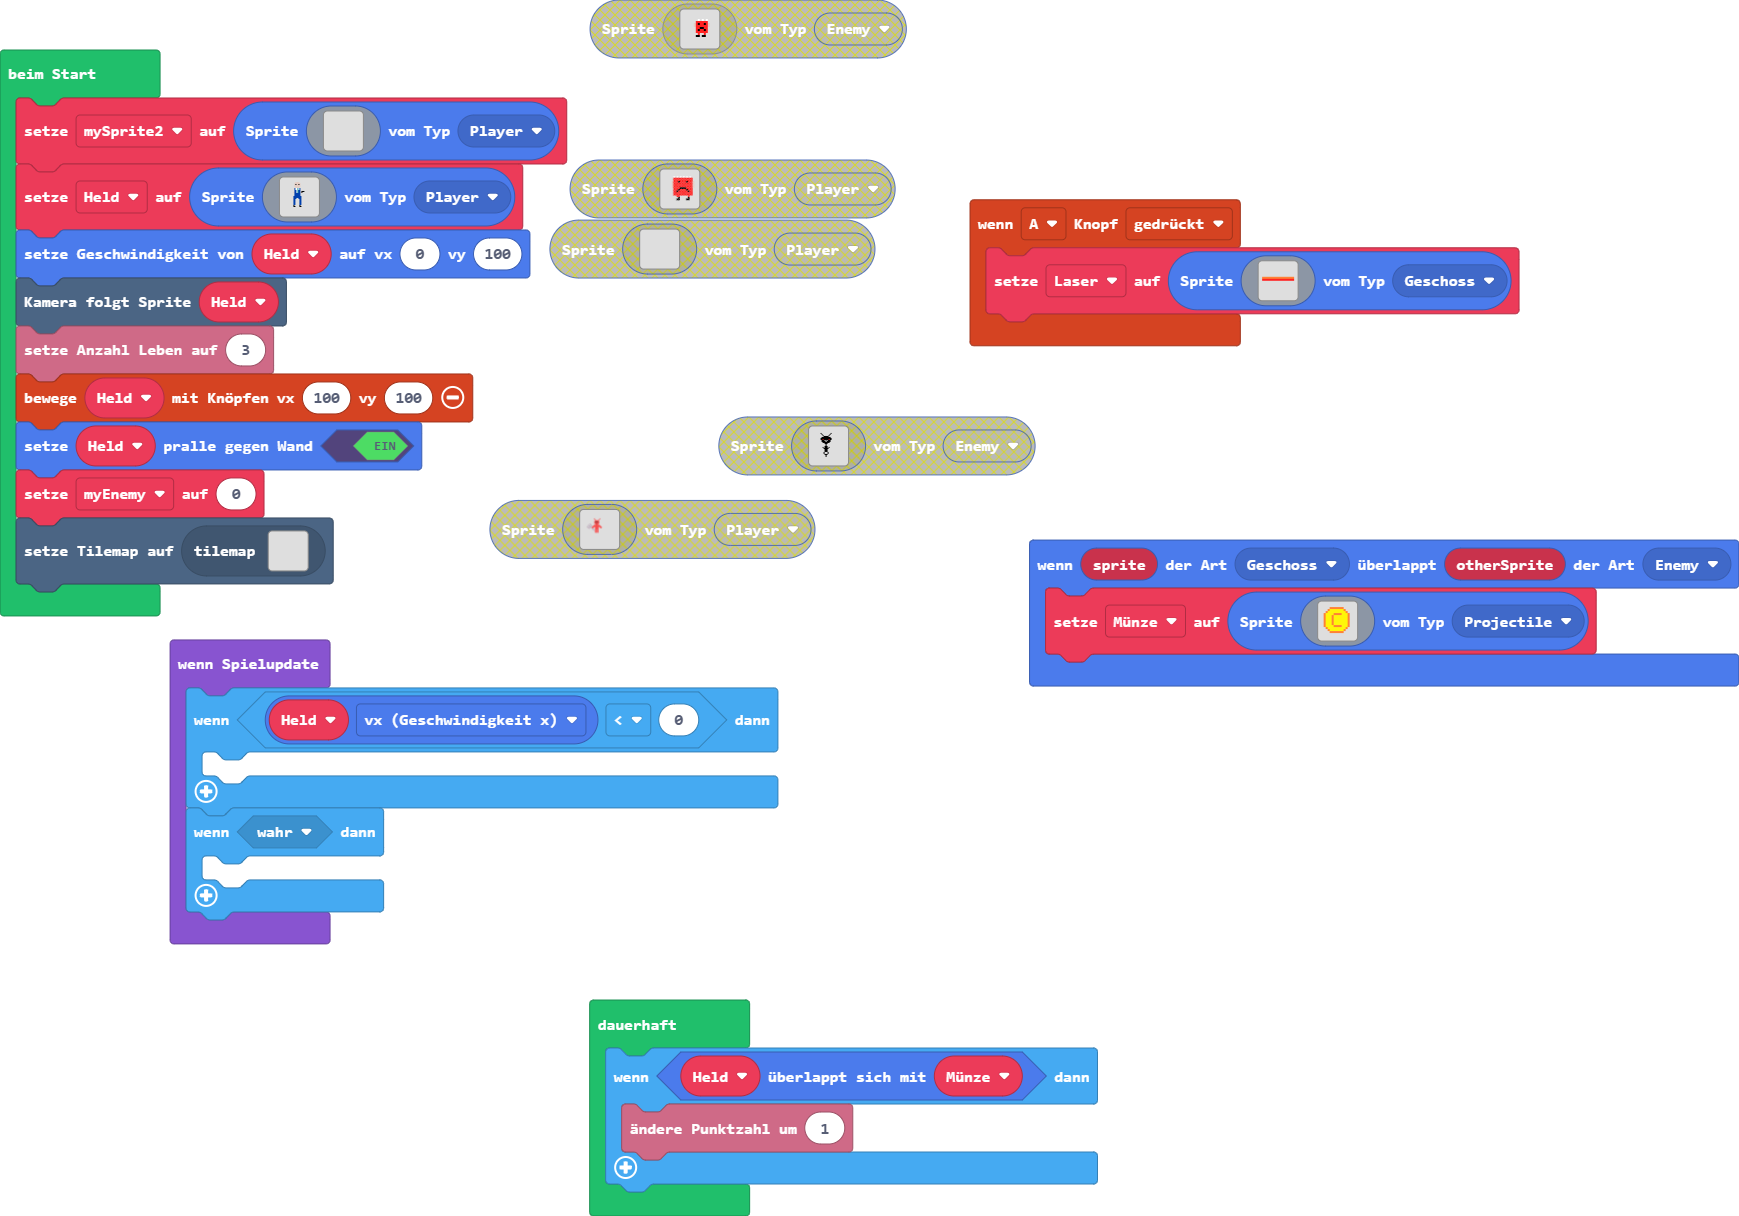
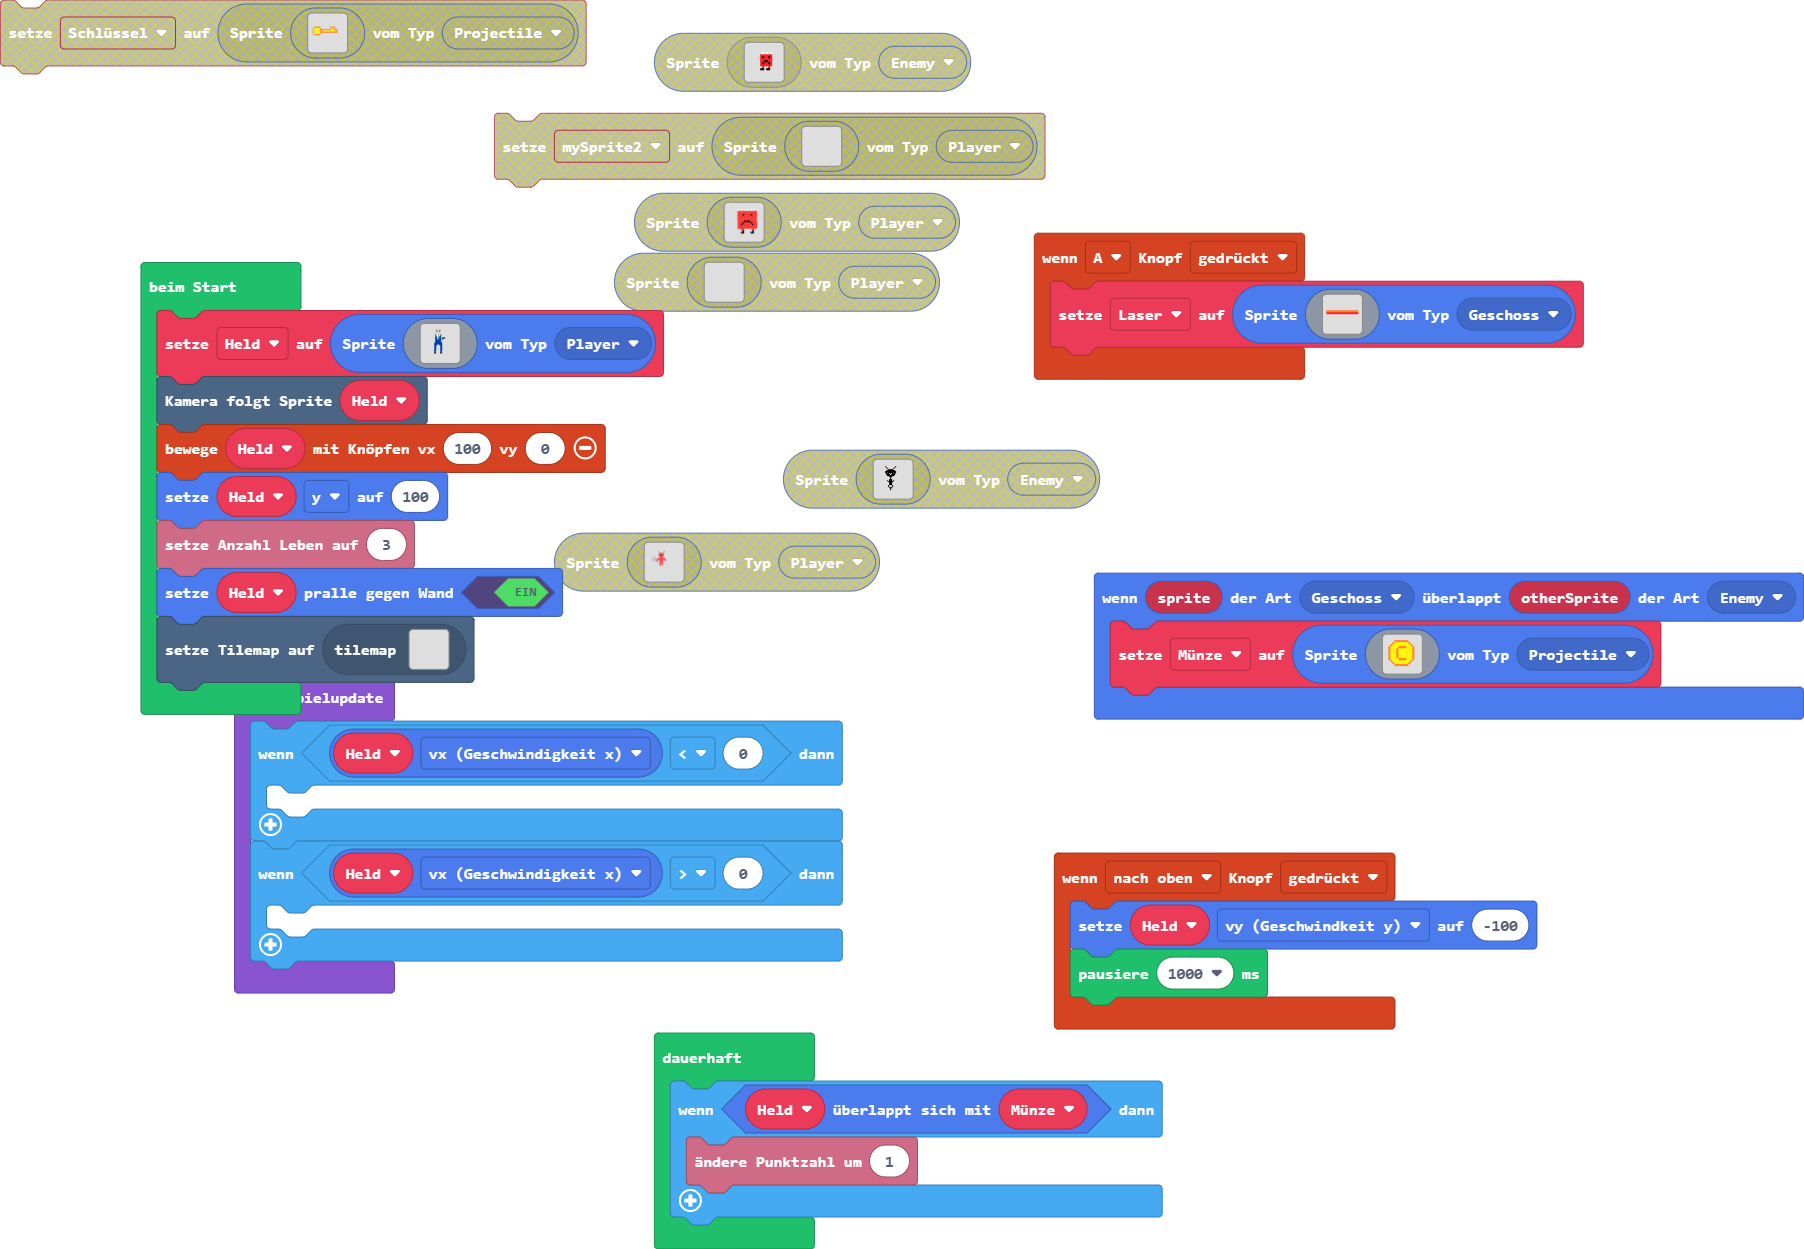
Aktualisiere main.blocks, main.ts, tilemap.g.jres, tilemap.g.ts

diff --git a/tilemap.g.ts b/tilemap.g.ts
@@ -4,6 +4,8 @@ namespace myTiles {
     export const transparency16 = image.ofBuffer(hex``);
     //% fixedInstance jres blockIdentity=images._tile
     export const tile1 = image.ofBuffer(hex``);
+    //% fixedInstance jres blockIdentity=images._tile
+    export const tile2 = image.ofBuffer(hex``);
 
     helpers._registerFactory("tilemap", function(name: string) {
         switch(helpers.stringTrim(name)) {
@@ -178,6 +180,44 @@ namespace myTiles {
 . . . . . . . . . . . . . . . . 
 . . . . . . . . . . . . . . . . 
 `, [], -Infinity);
+            case "Level10":
+            case "Level10":return tiles.createTilemap(hex`1000100000000000000000000000000000000000000000000000000000000000000000000000000000000000000000000000000000000000000000000000000000000000000000000000000000000000000000000000000000000000000000000000000000000000000000000000000000000000000000000000000000000000000000000000000000000000000000000000000000000000000000000000000000000000000000000000000000000000000000000000000000000000000000000000000000000000000000000000000000000000000000000000000000000000000000000000000000000000000000000000000000000000000000000000000000000000`, img`
+. . . . . . . . . . . . . . . . 
+. . . . . . . . . . . . . . . . 
+. . . . . . . . . . . . . . . . 
+. . . . . . . . . . . . . . . . 
+. . . . . . . . . . . . . . . . 
+. . . . . . . . . . . . . . . . 
+. . . . . . . . . . . . . . . . 
+. . . . . . . . . . . . . . . . 
+. . . . . . . . . . . . . . . . 
+. . . . . . . . . . . . . . . . 
+. . . . . . . . . . . . . . . . 
+. . . . . . . . . . . . . . . . 
+. . . . . . . . . . . . . . . . 
+. . . . . . . . . . . . . . . . 
+. . . . . . . . . . . . . . . . 
+. . . . . . . . . . . . . . . . 
+`, [myTiles.transparency16], TileScale.Sixteen);
+            case "Level11":
+            case "Level11":return tiles.createTilemap(hex`1000100000000000000000000000000000000000000000000000000000000000000000000000000000000000000000000000000000000000000000000000000000000000000000000000000000000000000000000000000000000000000000000000000000000000000000000000000000000000000000000000000000000000000000000000000000000000000000000000000000000000000000000000000000000000000000000000000000000000000000000000000000000000000000000000000000000000000000000000000000000000000000000000000000000000000000000000000000000000000000000000000000000000000000000000000000000000`, img`
+. . . . . . . . . . . . . . . . 
+. . . . . . . . . . . . . . . . 
+. . . . . . . . . . . . . . . . 
+. . . . . . . . . . . . . . . . 
+. . . . . . . . . . . . . . . . 
+. . . . . . . . . . . . . . . . 
+. . . . . . . . . . . . . . . . 
+. . . . . . . . . . . . . . . . 
+. . . . . . . . . . . . . . . . 
+. . . . . . . . . . . . . . . . 
+. . . . . . . . . . . . . . . . 
+. . . . . . . . . . . . . . . . 
+. . . . . . . . . . . . . . . . 
+. . . . . . . . . . . . . . . . 
+. . . . . . . . . . . . . . . . 
+. . . . . . . . . . . . . . . . 
+`, [myTiles.transparency16], TileScale.Sixteen);
         }
         return null;
     })
@@ -186,6 +226,7 @@ namespace myTiles {
         switch(helpers.stringTrim(name)) {
             case "transparency16":return transparency16;
             case "tile1":return tile1;
+            case "tile2":return tile2;
         }
         return null;
     })

diff --git a/main.ts b/main.ts
@@ -21,30 +21,17 @@ controller.A.onEvent(ControllerButtonEvent.Pressed, function () {
         . . . . . . . . . . . . . . . . 
         `, SpriteKind.Geschoss)
 })
+controller.up.onEvent(ControllerButtonEvent.Pressed, function () {
+    Held.vy = -100
+    pause(1000)
+})
 sprites.onOverlap(SpriteKind.Geschoss, SpriteKind.Enemy, function (sprite, otherSprite) {
     Münze = sprites.create(assets.image`Münze`, SpriteKind.Projectile)
 })
 let Münze: Sprite = null
 let Laser: Sprite = null
-let mySprite2 = sprites.create(img`
-    . . . . . . . . . . . . . . . . 
-    . . . . . . . . . . . . . . . . 
-    . . . . . . . . . . . . . . . . 
-    . . . . . . . . . . . . . . . . 
-    . . . . . . . . . . . . . . . . 
-    . . . . . . . . . . . . . . . . 
-    . . . . . . . . . . . . . . . . 
-    . . . . . . . . . . . . . . . . 
-    . . . . . . . . . . . . . . . . 
-    . . . . . . . . . . . . . . . . 
-    . . . . . . . . . . . . . . . . 
-    . . . . . . . . . . . . . . . . 
-    . . . . . . . . . . . . . . . . 
-    . . . . . . . . . . . . . . . . 
-    . . . . . . . . . . . . . . . . 
-    . . . . . . . . . . . . . . . . 
-    `, SpriteKind.Player)
-let Held = sprites.create(img`
+let Held: Sprite = null
+Held = sprites.create(img`
     ................................
     ............dddd................
     ...........dddddd...............
@@ -78,18 +65,17 @@ let Held = sprites.create(img`
     ................................
     ................................
     `, SpriteKind.Player)
-Held.setVelocity(0, 100)
 scene.cameraFollowSprite(Held)
+controller.moveSprite(Held, 100, 0)
+Held.y = 100
 info.setLife(3)
-controller.moveSprite(Held, 100, 100)
 Held.setBounceOnWall(true)
-let myEnemy = 0
 tiles.setCurrentTilemap(tilemap`Level8`)
 game.onUpdate(function () {
     if (Held.vx < 0) {
     	
     }
-    if (true) {
+    if (Held.vx > 0) {
     	
     }
 })
